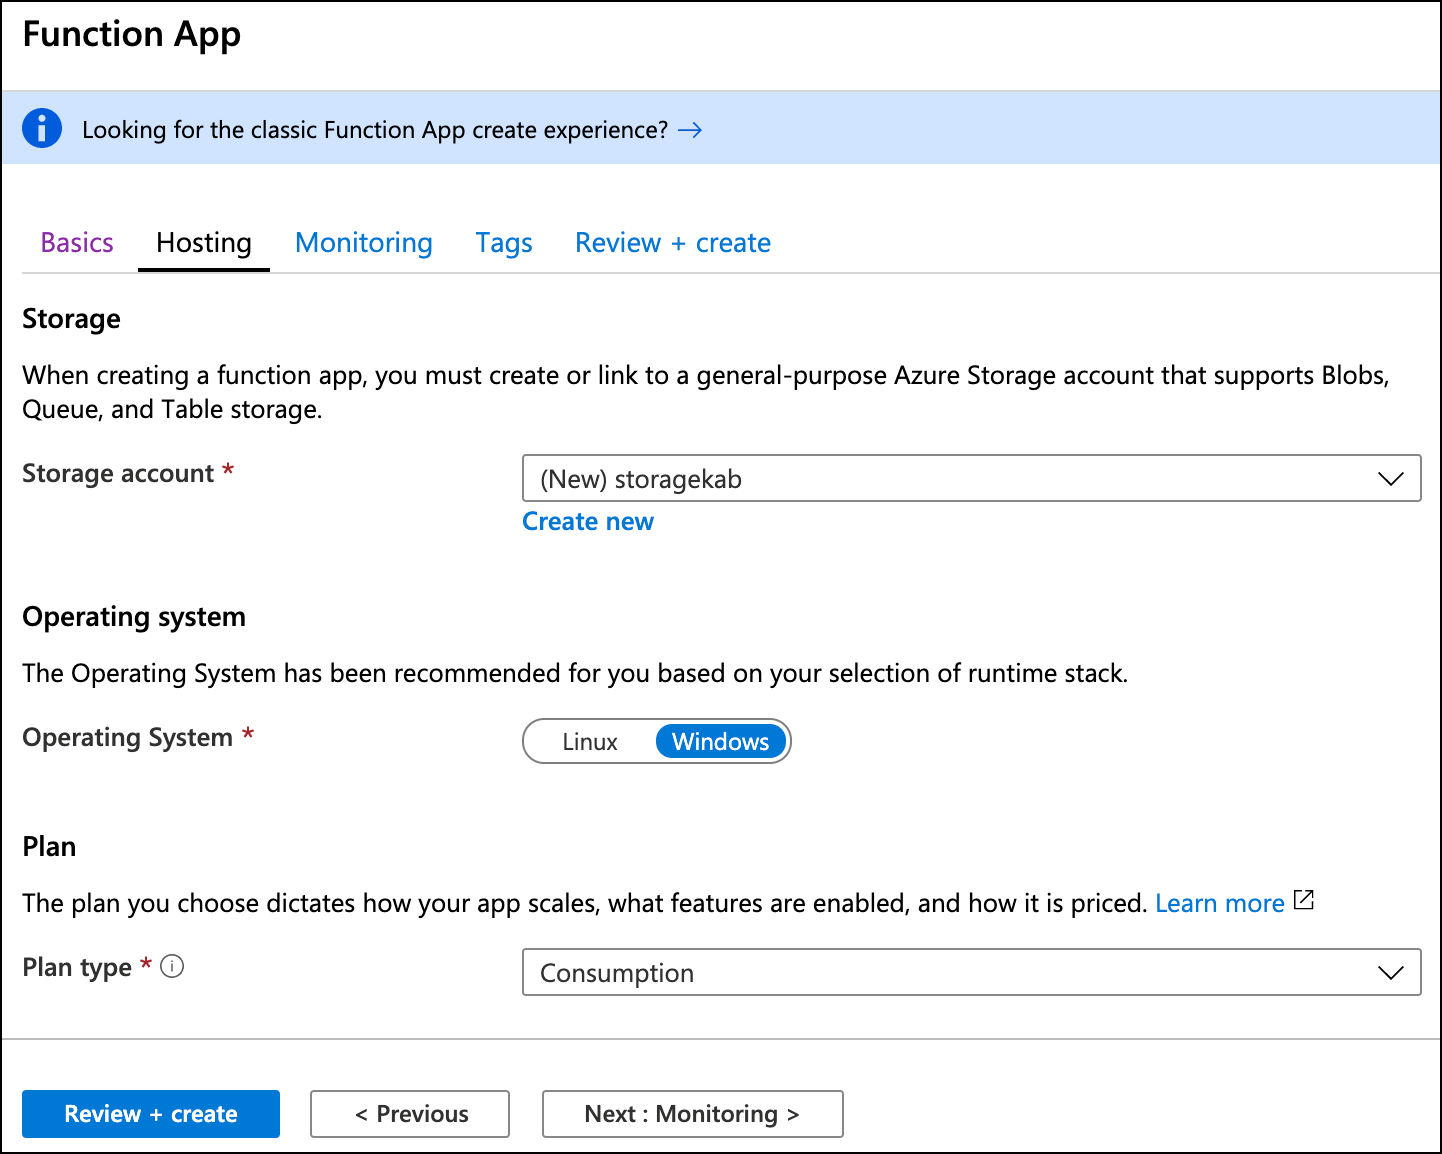
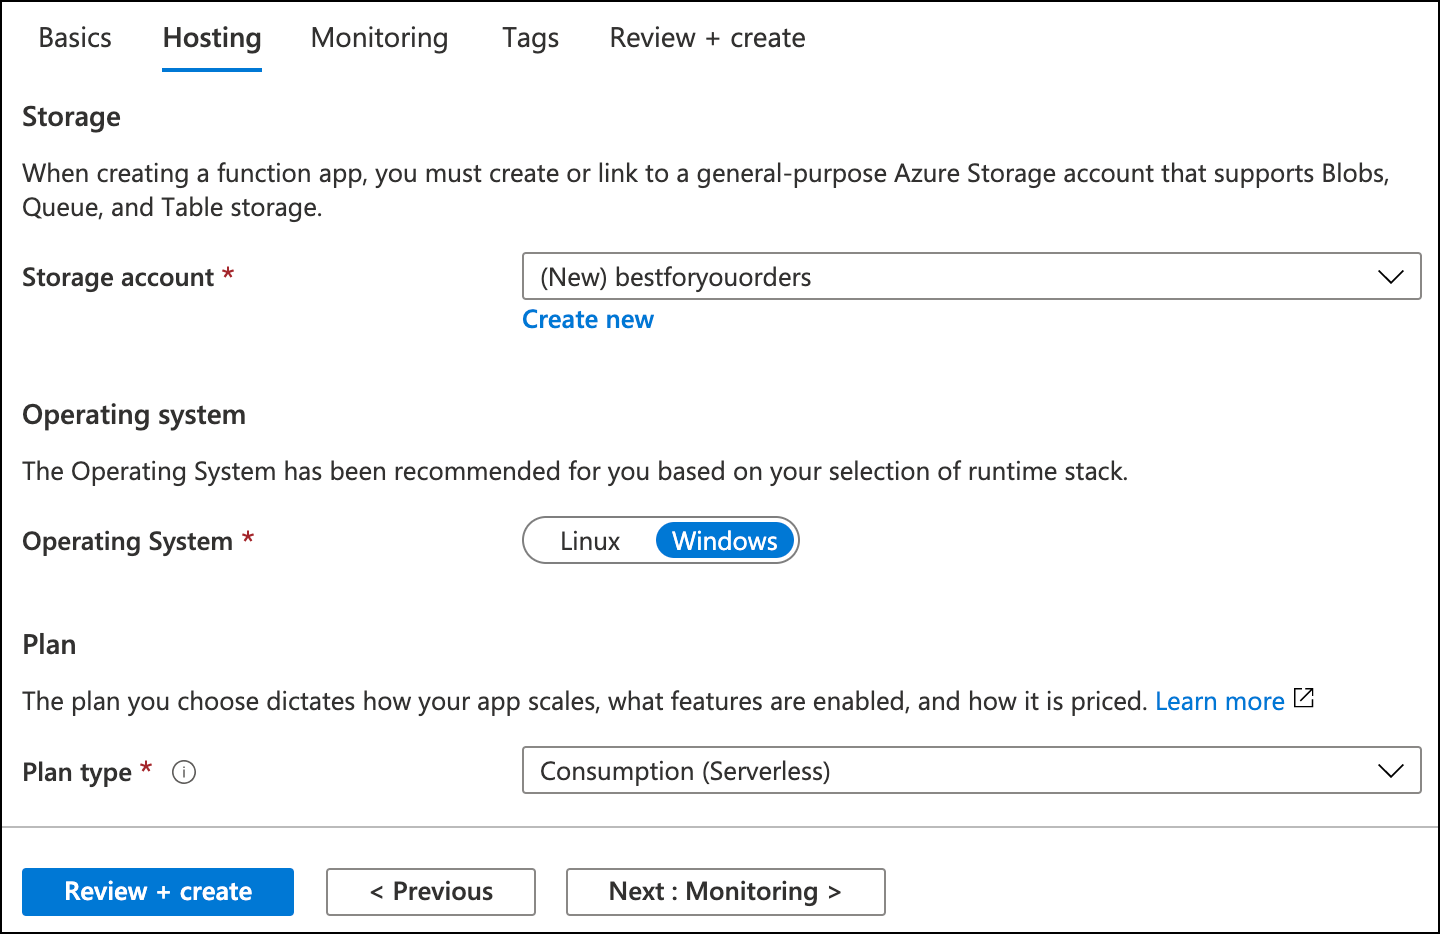
Before the HOL updates

diff --git a/Hands-on lab/Before the HOL.md b/Hands-on lab/Before the HOL.md
@@ -9,7 +9,7 @@ Before the hands-on lab setup guide
 </div>
 
 <div class="MCWHeader3">
-February 2020
+June 2020
 </div>
 
 Information in this document, including URL and other Internet Web site references, is subject to change without notice. Unless otherwise noted, the example companies, organizations, products, domain names, e-mail addresses, logos, people, places, and events depicted herein are fictitious, and no association with any real company, organization, product, domain name, e-mail address, logo, person, place or event is intended or should be inferred. Complying with all applicable copyright laws is the responsibility of the user. Without limiting the rights under copyright, no part of this document may be reproduced, stored in or introduced into a retrieval system, or transmitted in any form or by any means (electronic, mechanical, photocopying, recording, or otherwise), or for any purpose, without the express written permission of Microsoft Corporation.
@@ -18,7 +18,7 @@ Microsoft may have patents, patent applications, trademarks, copyrights, or othe
 
 The names of manufacturers, products, or URLs are provided for informational purposes only and Microsoft makes no representations and warranties, either expressed, implied, or statutory, regarding these manufacturers or the use of the products with any Microsoft technologies. The inclusion of a manufacturer or product does not imply endorsement of Microsoft of the manufacturer or product. Links may be provided to third party sites. Such sites are not under the control of Microsoft and Microsoft is not responsible for the contents of any linked site or any link contained in a linked site, or any changes or updates to such sites. Microsoft is not responsible for webcasting or any other form of transmission received from any linked site. Microsoft is providing these links to you only as a convenience, and the inclusion of any link does not imply endorsement of Microsoft of the site or the products contained therein.
 
-© 2020 Microsoft Corporation. All rights reserved.
+&copy; 2020 Microsoft Corporation. All rights reserved.
 
 Microsoft and the trademarks listed at <https://www.microsoft.com/en-us/legal/intellectualproperty/Trademarks/Usage/General.aspx> are trademarks of the Microsoft group of companies. All other trademarks are property of their respective owners.
 
@@ -128,8 +128,17 @@ In this task, you provision an Azure Linux VM, which will serve as your Jenkins 
 
 3. On the **Create Jenkins Basics** tab, enter the following:
 
+    **Project Details**:
+
     - **Subscription:** Select the subscription you are using for this hands-on lab.
     - **Resource group:** Select the hands-on-lab-SUFFIX resource group from the list.
+
+    > **Note**: If you receive a message that the hands-on-lab-SUFFIX resource group contains existing resources, select **Create new** and enter **hands-on-lab-SUFFIX-jenkins** as the resource group name.
+
+    ![Create new is selected under Resource group and hands-on-lab-SUFFIX-jenkins is entered into the Name textbox.](media/jenkins-create-resource-group.png "Create Jenkins resource group")
+
+    **Instance Details**:
+
     - **Region:** Select the region you are using for resources in this hands-on lab.
     - **Name:** Enter **jenkins**
     - **User name:** Enter **jenkinsadmin**
@@ -177,19 +186,22 @@ In this task, you provision a new Azure Cosmos DB account using the MongoDB API.
 
 3. On the **Azure Cosmos** **DB** blade, enter the following:
 
-    **PROJECT DETAILS**:
+    **Project Details**:
 
     - **Subscription:** Select the subscription you are using for this hands-on lab.
     - **Resource Group:** Select the **hands-on-lab-SUFFIX** resource group you created previously.
 
-    **INSTANCE DETAILS**:
+    **Instance Details**:
 
     - **Account Name**: Enter `best-for-you-db-SUFFIX`, where SUFFIX is your Microsoft alias, initials, or another value to ensure the name is unique (indicated by a green checkmark).
     - **API:** Select **Azure Cosmos DB for MongoDB API**.
+    - **Notebooks (Preview)**: Select **Off**.
     - **Location:** Select a location near you from the list (Note: not all locations are available for Cosmos DB).
+    - **Account type**: Select **Non-Production**.
     - **Version**: Accept the default version.
-    - **Enable geo-redundancy:** Select Disable.
+    - **Geo-redundancy:** This is disabled and cannot be changed.
     - **Multi-region Writes**: Select Disable.
+    - **Availability Zones**: Select Disable.
 
     ![The information above is entered in the Azure Cosmos DB blade.](media/cosmos-db-create-basics.png "Azure Cosmos DB")
 
@@ -211,18 +223,24 @@ In this task, you create a private Docker registry in the Azure portal, so you h
 
     ![Container registry is entered into the search box, and Container Registry is selected and highlighted in the search results.](media/create-container-registry-resource.png "Azure Portal")
 
-3. On the **Create container registry** blade, enter the following:
+3. On the **Create container registry** Basics tab, enter the following:
 
-    - **Registry name:** Enter "bestforyouregistrySUFFIX", where SUFFIX is your Microsoft alias, initials, or another value to ensure the name is unique (indicated by a green checkmark).
+    **Project Details**:
+
     - **Subscription:** Select the subscription you are using for this hands-on lab.
     - **Resource group:** Select the **hands-on-lab-SUFFIX** resource group created previously.
+
+    **Instance Details**:
+
+    - **Registry name:** Enter "bestforyouregistrySUFFIX", where SUFFIX is your Microsoft alias, initials, or another value to ensure the name is unique (indicated by a green checkmark).
     - **Location:** Select the location you are using for resources in this hands-on lab.
-    - **Admin user:** Select **Enable**.
     - **SKU:** Select **Basic**.
 
     ![The information above is entered on the Create container registry blade.](media/azure-create-resource-container-registry.png "Create container registry blade")
 
-4. Select **Create** to provision the new Azure Container Registry.
+4. Select **Review + create**.
+
+5. Select **Create** on the Review + create tab to provision the new Azure Container Registry.
 
 ### Task 6: Provision a Function App
 
@@ -240,21 +258,22 @@ In this task, you create a Function App in Azure to host your Functions.
 
 4. On the **Create Function App** blade, enter the following:
 
-    **Project details**:
+    **Project Details**:
 
     - **Subscription:** Select the subscription you are using for this hands-on lab.
     - **Resource group:** Choose **Create new** and enter **hands-on-lab-func-SUFFIX** as resource group name.
 
-    **Instance details**:
+    > **Important**: Make sure you created a new resource group, as outlined above. Failure to do so will result in an error when you attempt to create the Function App.
+
+    **Instance Details**:
 
     - **Function App name:** Enter a unique name, such as "bestforyouordersSUFFIX".
     - **Publish:** Select Code.
     - **Runtime Stack** Select Node.js.
+    - **Version**: Accept the default version.
     - **Region:** Select the region you have been using for resources in this hands-on lab.
 
     ![The information above is entered on the Create Function App basics tab.](media/create-function-app-basics-tab.png "Create Function App Settings")
-
-    > **Important**: Make sure you created a new resource group, as outlined above. Failure to do so will result in an error when you attempt to create the Function App.
 
 5. Select **Next: Hosting**.
 
@@ -262,7 +281,7 @@ In this task, you create a Function App in Azure to host your Functions.
 
     - **Storage account:** Select **Create new** and enter a globally unique name, such as "bestforyouordersSUFFIX."
     - **Operating System**: Select Windows.
-    - **Plan type:** Choose Consumption.
+    - **Plan type:** Choose Consumption (Serverless).
 
     ![The information above is entered on the Create Function App hosting tab.](media/create-function-app-hosting-tab.png "Create Function App Settings")
 
@@ -284,12 +303,12 @@ In this task, you create a new Logic App, which will use a SendGrid connector to
 
 3. In the **Create logic app** blade, enter the following:
 
-    **Project details**:
+    **Project Details**:
 
     - **Subscription:** Select the subscription you are using for this hands-on lab.
     - **Resource group:** Select **Use existing** and choose the **hands-on-lab-SUFFIX** resource group.
 
-    **Instance details**:
+    **Instance Details**:
 
     - **Name:** Enter "OrderNotifications"
     - **Select the location**: Choose Region.
@@ -314,13 +333,11 @@ In this task, you sign up for a free GitHub account, which is used for hosting a
 
     ![This is a screenshot of the sign-up form on github.com.](media/github-signup.png "Sign up for GitHub")
 
-3. On the Welcome to GitHub screen, select **Unlimited public repositories free** under **Choose your personal plan** and select **Continue**.
+3. On the Create your account screen, complete the account verification and select **Join a free plan**.
 
-    ![Unlimited public repositories free is selected under Choose your personal plan on the Welcome to GitHub screen.](media/github-welcome.png "Select Unlimited public repositories free")
+4. On the Welcome to GitHub screen, answer the questions and then select **Complete setup**.
 
-4. On the next screen, you can select options to tailor your experience and select **Submit**, or select **skip this step**, next to **Submit,** to complete your registration.
-
-    ![Very experienced, Development, and I'm a professional are selected in Step 2 on the Welcome to GitHub screen.](media/github-experience.png "Select options in Step 2")
+5. Verify your email address by opening your email and selecting the **Verify email address** link in the email you receive from GitHub (noreply@github.com).
 
 ### Task 9: Fork the starter app
 
